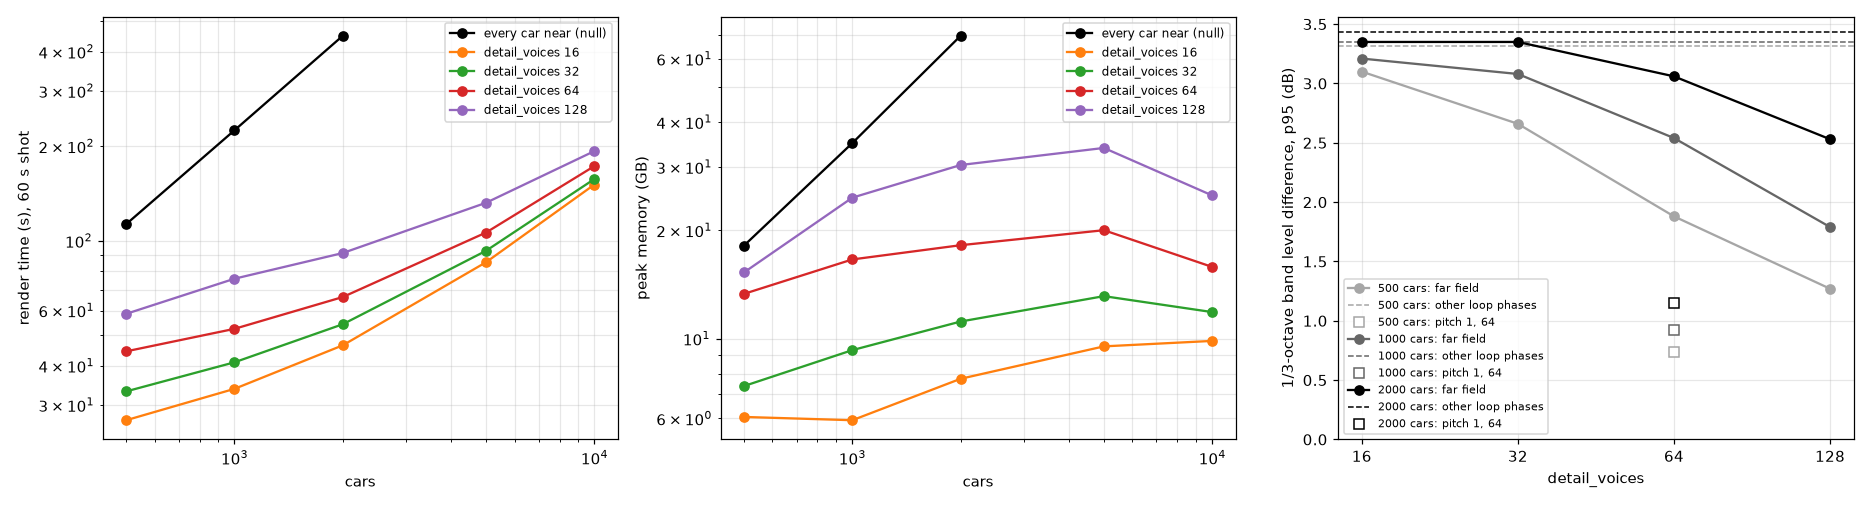
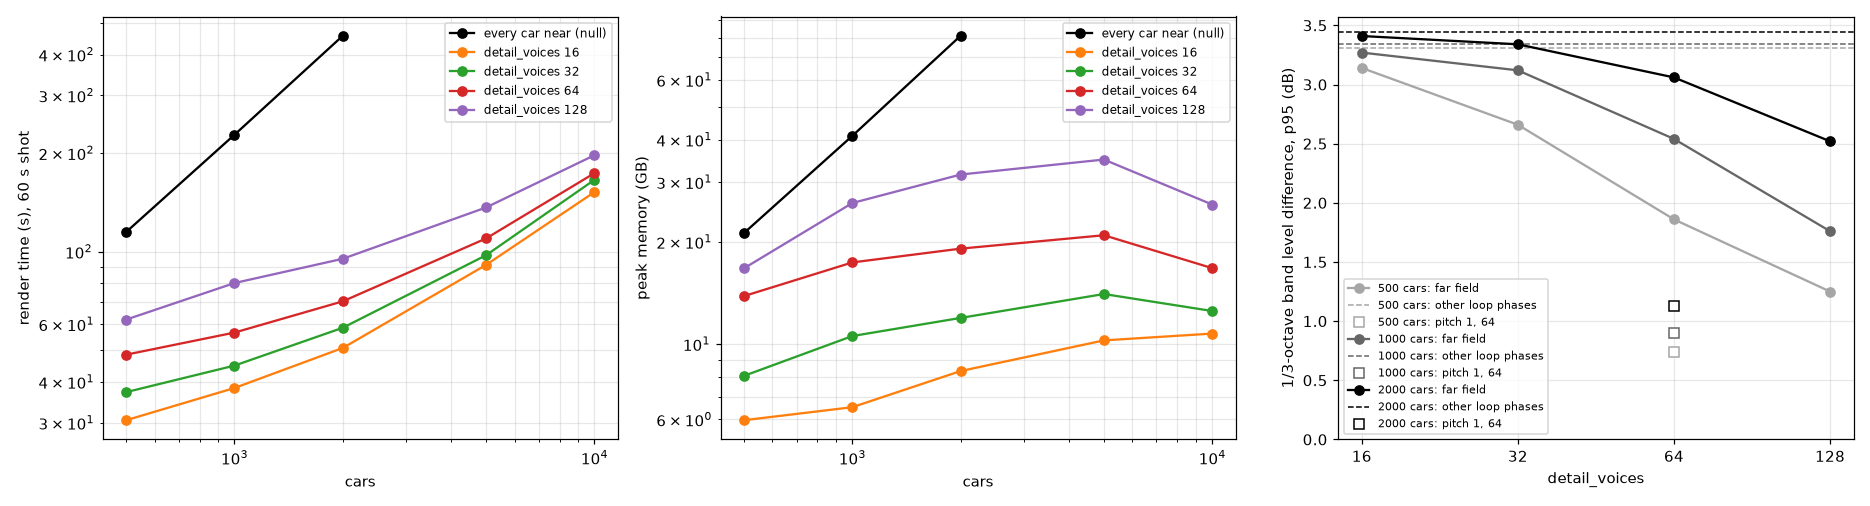
E18 rerun with the new air filter; Doppler cause of the far field's dull highs (#39)
E18's render cases ran again with 7e92f98 on the same bakes. 10 000
cars at detail_voices 64: 174 s, 16.7 GB (was 173 s, 15.8 GB); every
car through the full chain 0.23 s and 40 MB per car (was 35 MB: the air
sections' coefficients per control point, #32). Differences to the full
render unchanged within 0.1 dB.

The far field stays 0.6-1.3 dB duller at 3-6 kHz for 2000 cars, also
with the new filter, whose tiers agree within 0.73 dB: the cause is the
Doppler shift. The full chain absorbs at the emitted frequency (before
the delay line), the far field at the received one, which is the
physical one. E05 section 6 (new, --doppler): one source at 80 m/s,
far minus full -12.8 dB at 6.4 kHz approaching, +11.9 dB receding,
+1.4 dB standing. Filed as #40; the air-absorption model no longer
calls the shift negligible.

README, usage, ADR 0013 and the research index quote the new numbers.

diff --git a/research/experiments/scripts/e05_air_absorption.py b/research/experiments/scripts/e05_air_absorption.py
@@ -14,10 +14,15 @@
    the full chain (96 kHz) and ISO, bands sqrt(2) and an octave apart.
 5. Cost: the emission-side stage alone (ns per sample, one thread) and a full-chain render with air
    absorption on and off (48 moving sources, 20 s, one worker).
+6. Doppler: one source approaching or receding at 80 m/s (or standing) 450-700 m away, rendered by
+   the full chain (air absorption before the delay line, at the emitted frequency) and by the far
+   field (after the read, at the received frequency): the far field minus the full chain per band.
+   ``--doppler`` runs this section alone.
 Writes research/figures/e05_air_absorption.png.
 """
 
 import math
+import sys
 import time
 
 import matplotlib
@@ -248,7 +253,45 @@ def render_cost() -> tuple[float, float]:
     return tuple(out)
 
 
+def doppler() -> list[list]:
+    """Far field minus full chain (dB) at 1, 3.2 and 6.4 kHz for a source at 80 m/s towards and away
+    from the listener and a standing one, 3 s of noise (welch), and what the Doppler factor r of the
+    playback rate predicts if the full chain's loss is that of the emitted frequency f / r."""
+    from scipy.signal import welch
+
+    from soundstage.engine import farfield as ff
+
+    noise = sample("e05_doppler.wav", np.random.default_rng(1).standard_normal(4 * RATE) * 0.1)
+    f = np.array([1000.0, 3200.0, 6400.0])
+    rows = []
+    for v, d0 in ((80.0, 700.0), (-80.0, 300.0), (0.0, 450.0)):
+        t = np.arange(151)[:, None, None] / 30.0
+        pos = np.array([[[0.0, d0, 0.0]]]) - np.array([[[0.0, v, 0.0]]]) * t
+        sc = scene([{"sample": noise}], pos, frame_end=150,
+                   settings={"panner": "amplitude", "cull_db": None, "detail_voices": None})
+        full = render.render(sc).audio[RATE: 4 * RATE, 0]
+        assign = ff.assign_tiers
+        ff.assign_tiers = lambda e, g, sp, spans, n, d: np.zeros((len(e), n), dtype=bool)  # every source far
+        try:
+            sc.settings["detail_voices"] = 1
+            far = render.render(sc).audio[RATE: 4 * RATE, 0]
+        finally:
+            ff.assign_tiers = assign
+        fr, pa = welch(full, RATE, nperseg=4096)
+        _, pb = welch(far, RATE, nperseg=4096)
+        k = [int(np.argmin(np.abs(fr - x))) for x in f]
+        r = 1.0 / (1.0 - v / 343.0)
+        d = d0 - v * 2.5  # distance at the middle of the measured 3 s
+        predicted = -filters.iso9613_alpha(f) * d * (1.0 - 1.0 / r ** 2)
+        rows.append([f"{v:+.0f} m/s, {d0:.0f} m", *(f"{x:+.1f}" for x in 10 * np.log10(pb[k] / pa[k])),
+                     *(f"{x:+.1f}" for x in predicted)])
+    return rows
+
+
 def main() -> None:
+    if "--doppler" in sys.argv:
+        print_doppler()
+        return
     octave = np.array([63, 125, 250, 500, 1000, 2000, 4000, 8000])
     centres = 1000 * 10 ** (np.arange(-12, 10, 3) / 10)  # exact band centres
     for freqs, label in ((octave, "nominal band frequencies"), (centres, "exact band centres")):
@@ -303,6 +346,8 @@ def main() -> None:
           f"{on:.2f} s with air absorption and {off:.2f} s without (+{100 * (on / off - 1):.1f} %). "
           f"Interpolating h with the other coefficients keeps h (1 + g k) within {stray:.1e} of 1.")
 
+    print_doppler()
+
     air = filters.AirAbsorption(20, 50, RATE_E)
     f = np.geomspace(50, 20000, 400)
     alpha = filters.iso9613_alpha(f)
@@ -318,6 +363,12 @@ def main() -> None:
     ax.grid(alpha=0.3, which="both")
     ax.legend(fontsize=7, ncol=2)
     save(fig, "e05_air_absorption.png")
+
+
+def print_doppler() -> None:
+    print("\n6. Doppler: far field minus full chain (dB), and what the full chain's loss at the emitted frequency "
+          "f / r predicts (r: the Doppler factor):\n")
+    print(table(["source", "1 kHz", "3.2 kHz", "6.4 kHz", "predicted 1 kHz", "3.2 kHz", "6.4 kHz"], doppler()))
 
 
 if __name__ == "__main__":

diff --git a/research/experiments/E18-traffic.md b/research/experiments/E18-traffic.md
@@ -61,28 +61,32 @@ one job per node.
 
 ## Results: render time and memory
 
+These are the runs with the air filter of 7e92f98 (two sections with zeros, E05); the first runs
+(c81a028, four one-poles) are kept in `out/e18/results_c81a028.jsonl` on the machines that ran them.
+
 ![render time, memory and band level difference](../figures/e18_scaling.png)
 
 Render time (s) and peak memory (GB), 60 s shot, scenes baked with every path:
 
 | cars | null (every car near) | 16 | 32 | 64 (default) | 128 |
 |---|---|---|---|---|---|
-| 500 | 113 / 18.1 | 27 / 6.1 | 33 / 7.4 | 44 / 13.3 | 59 / 15.3 |
-| 1000 | 225 / 35.0 | 34 / 5.9 | 41 / 9.3 | 52 / 16.6 | 76 / 24.7 |
-| 2000 | 450 / 69.6 | 47 / 7.7 | 54 / 11.2 | 66 / 18.2 | 91 / 30.4 |
-| 5000 | | 86 / 9.5 | 93 / 13.1 | 106 / 20.0 | 132 / 33.9 |
-| 10 000 | | 151 / 9.9 | 157 / 11.9 | 173 / 15.8 | 193 / 25.0 |
+| 500 | 115 / 21.2 | 31 / 6.0 | 37 / 8.1 | 48 / 13.9 | 62 / 16.7 |
+| 1000 | 228 / 41.1 | 38 / 6.5 | 45 / 10.6 | 57 / 17.4 | 80 / 26.0 |
+| 2000 | 457 / 81.0 | 51 / 8.3 | 59 / 11.9 | 71 / 19.1 | 95 / 31.6 |
+| 5000 | | 91 / 10.3 | 98 / 14.1 | 110 / 20.9 | 136 / 35.0 |
+| 10 000 | | 152 / 10.7 | 166 / 12.5 | 174 / 16.7 | 197 / 25.8 |
 
 - With every car through the full chain, time and memory grow with the number of cars: about
-  0.23 s and 35 MB per car (2000 cars: 450 s, 69.6 GB).
+  0.23 s and 40 MB per car (2000 cars: 457 s, 81 GB). The first runs needed 35 MB per car: the air
+  filter's coefficients per control point take 6–7 MB more per voice over a 60 s shot (#32).
 - With the far field, the render time is a part per car plus a part per near voice. A
   least-squares fit over `detail_voices` 16–128 against the most near voices alive at once gives
-  0.17–0.20 s per near voice, on a base that grows from 21 s at 500 cars to 146 s at 10 000: about
-  13 ms per far car, 1/17 of the full chain. 10 000 cars at the default 64 render in 173 s with
-  15.8 GB.
+  0.17–0.20 s per near voice, on a base that grows from 25 s at 500 cars to 149 s at 10 000: about
+  15 ms per far car, 1/15 of the full chain. 10 000 cars at the default 64 render in 174 s with
+  16.7 GB (first runs: 173 s, 15.8 GB).
 - Memory follows the near voices alive at once, not the number of cars. They peak at about
   2 × `detail_voices` (hysteresis 1.5 and renderers overlapping at chunk boundaries). The same fit
-  gives 55–110 MB per near voice at the peak, on a base of 4–7 GB that grows with the number of
+  gives 63–110 MB per near voice at the peak, on a base of 4–8 GB that grows with the number of
   cars (their positions).
 - The setup (positions, estimates, tiers) takes 12 s at 10 000 cars; the rest is audio.
 
@@ -90,24 +94,24 @@ Render time (s) and peak memory (GB), 60 s shot, scenes baked with every path:
 
 | cars | case | band level median / p95 (dB) | balance p95 (dB) | block level p95 (dB) |
 |---|---|---|---|---|
-| 500 | phase | −0.01 / 3.32 | 3.03 | 2.34 |
-| 500 | 16 | −0.20 / 3.10 | 3.16 | 2.27 |
-| 500 | 64 | 0.02 / 1.88 | 1.23 | 1.08 |
-| 500 | 128 | 0.01 / 1.27 | 0.71 | 0.56 |
-| 500 | direct | 0.03 / 1.91 | 1.23 | 1.07 |
-| 500 | unpitched, 64 | 0.02 / 0.74 | 0.30 | 0.08 |
-| 1000 | phase | −0.01 / 3.35 | 3.03 | 2.71 |
-| 1000 | 16 | −0.32 / 3.21 | 3.59 | 2.16 |
-| 1000 | 64 | −0.06 / 2.54 | 2.34 | 1.55 |
-| 1000 | 128 | 0.03 / 1.79 | 1.37 | 1.03 |
-| 1000 | direct | −0.06 / 2.54 | 2.27 | 1.55 |
-| 1000 | unpitched, 64 | −0.00 / 0.92 | 0.81 | 0.12 |
-| 2000 | phase | 0.00 / 3.43 | 3.11 | 2.54 |
-| 2000 | 16 | −0.40 / 3.35 | 4.08 | 2.65 |
-| 2000 | 64 | −0.27 / 3.06 | 3.40 | 2.13 |
-| 2000 | 128 | −0.08 / 2.53 | 2.46 | 1.66 |
-| 2000 | direct | −0.26 / 3.06 | 3.36 | 2.16 |
-| 2000 | unpitched, 64 | −0.06 / 1.15 | 1.11 | 0.13 |
+| 500 | phase | −0.01 / 3.31 | 3.02 | 2.34 |
+| 500 | 16 | −0.21 / 3.14 | 3.22 | 2.27 |
+| 500 | 64 | 0.02 / 1.86 | 1.25 | 1.08 |
+| 500 | 128 | 0.01 / 1.25 | 0.72 | 0.56 |
+| 500 | direct | 0.03 / 1.88 | 1.25 | 1.08 |
+| 500 | unpitched, 64 | 0.02 / 0.74 | 0.28 | 0.08 |
+| 1000 | phase | −0.02 / 3.34 | 3.03 | 2.71 |
+| 1000 | 16 | −0.32 / 3.27 | 3.54 | 2.16 |
+| 1000 | 64 | −0.07 / 2.54 | 2.30 | 1.56 |
+| 1000 | 128 | 0.02 / 1.76 | 1.37 | 1.03 |
+| 1000 | direct | −0.06 / 2.54 | 2.23 | 1.55 |
+| 1000 | unpitched, 64 | −0.01 / 0.90 | 0.79 | 0.12 |
+| 2000 | phase | 0.00 / 3.44 | 3.10 | 2.54 |
+| 2000 | 16 | −0.39 / 3.41 | 3.95 | 2.65 |
+| 2000 | 64 | −0.27 / 3.06 | 3.42 | 2.13 |
+| 2000 | 128 | −0.08 / 2.52 | 2.40 | 1.65 |
+| 2000 | direct | −0.26 / 3.06 | 3.39 | 2.17 |
+| 2000 | unpitched, 64 | −0.06 / 1.13 | 1.09 | 0.12 |
 
 - **Other loop phases alone** change the band levels by up to 3.3–3.4 dB (95th percentile), the
   balance by 3.0–3.1 dB and the block level by 2.3–2.7 dB. Loops of nearly the same tone beat
@@ -115,12 +119,12 @@ Render time (s) and peak memory (GB), 60 s shot, scenes baked with every path:
   random from the source id. A difference of this size is not an error of the far field.
 - **The far field** stays at or below that in band level and block level in every case, and comes
   closer to the reference with more near voices. The balance is the exception: at 2000 cars and
-  `detail_voices` up to 64 (and at 1000 cars and 16) it differs by 3.4–4.1 dB, more than other
+  `detail_voices` up to 64 (and at 1000 cars and 16) it differs by 3.4–4.0 dB, more than other
   phases change it (3.0–3.1 dB). The far field has no ITD or head shadow.
 - **With pitch 1** (both tiers read the loops at the same point), the far field differs from the
-  full render by 0.7–1.2 dB in band level, 0.3–1.1 dB in balance and 0.1 dB in block level (95th
+  full render by 0.7–1.1 dB in band level, 0.3–1.1 dB in balance and 0.1 dB in block level (95th
   percentiles).
-- **Far visibility from the direct path** (the default bake) renders within 0.04 dB of the bake
+- **Far visibility from the direct path** (the default bake) renders within 0.07 dB of the bake
   with every path, in every measure.
 
 ## Results: high frequencies
@@ -129,37 +133,43 @@ Median band level difference per octave (dB; the octave from the given frequency
 
 | case | 400 Hz | 800 Hz | 1.6 kHz | 3.2 kHz | 6.4 kHz |
 |---|---|---|---|---|---|
-| phase | 0.03 | −0.04 | −0.00 | 0.00 | 0.12 |
-| 16 | 0.20 | −0.13 | −0.39 | −1.05 | −1.84 |
-| 64 | 0.12 | 0.03 | −0.23 | −0.65 | −1.09 |
-| 128 | 0.30 | 0.12 | −0.05 | −0.29 | −0.44 |
-| unpitched, 64 | 0.07 | 0.04 | −0.22 | −0.65 | −1.04 |
+| phase | 0.03 | −0.04 | 0.00 | 0.00 | 0.11 |
+| 16 | 0.17 | −0.13 | −0.34 | −1.00 | −2.25 |
+| 64 | 0.06 | 0.02 | −0.21 | −0.64 | −1.31 |
+| 128 | 0.30 | 0.11 | −0.05 | −0.30 | −0.63 |
+| unpitched, 64 | 0.04 | 0.02 | −0.20 | −0.63 | −1.29 |
 
 The far field is duller above 3 kHz, by as much with pitch 1 (so not from the loop phases) and
-more with fewer near voices (so from the far voices). Two causes:
+more with fewer near voices (so from the far voices). With the first air filter the medians were
+−0.65 and −1.09 dB at 64; the new filter, whose two tiers agree within 0.73 dB below 20 dB of loss
+and follow ISO to 60 dB, did not remove them:
 
-- **Distance bands.** A voice between two bands is the sum of their air-absorption filters, and
-  their phases differ. The first runs, with bands an octave apart (`BAND_RATIO` 2, `N_BANDS` 11 in
-  `farfield.py`), gave −0.79 and −1.32 dB at 3.2 and 6.4 kHz for 2000 cars at 64. With bands √2
-  apart, a voice halfway between two bands is within 0.5 dB of the full chain up to 6.5 kHz
-  (`tests/test_farfield.py`), and the medians above are 0.1–0.25 dB closer. The 20 bands cost
-  5–13 % render time.
-- **Air absorption beyond 20 dB.** The rest comes from distant cars, where the air takes more than
-  20 dB above 3 kHz. There the far field's filters (fitted at the output rate) and the full chain's
-  (fitted at twice that rate) differ, and both stay far below ISO 9613-1's loss:
-
-| distance (m) | 3.2 kHz: ISO / far / full (dB) | 6.4 kHz | 9 kHz |
+| distance (m) | 3.2 kHz: ISO / far (48 kHz) / full (96 kHz) (dB) | 6.4 kHz | 9 kHz |
 |---|---|---|---|
-| 141 | −2.9 / −2.9 / −3.1 | −9.8 / −10.1 / −10.3 | −18.5 / −17.8 / −16.9 |
-| 283 | −5.7 / −6.2 / −6.3 | −19.7 / −18.3 / −17.8 | −37.0 / −28.7 / −26.7 |
-| 566 | −11.5 / −12.0 / −12.0 | −39.4 / −27.3 / −26.7 | −74.1 / −38.7 / −36.5 |
-| 1131 | −22.9 / −18.8 / −18.8 | −78.7 / −34.7 / −33.8 | −148.0 / −46.2 / −43.7 |
+| 141 | −2.9 / −3.0 / −3.0 | −9.8 / −9.6 / −9.6 | −18.5 / −18.4 / −18.6 |
+| 283 | −5.7 / −6.0 / −6.2 | −19.7 / −19.9 / −20.0 | −37.0 / −36.9 / −37.3 |
+| 566 | −11.5 / −10.9 / −10.8 | −39.4 / −39.3 / −39.7 | −74.1 / −64.0 / −66.7 |
+| 1131 | −22.9 / −23.5 / −23.6 | −78.7 / −62.9 / −63.9 | −148.0 / −62.5 / −61.0 |
 
-  Neither is the reference there: both tiers let distant cars sound much brighter than the air
-  would. These runs used the first air filter (four one-poles fitted below 20 dB of loss). It has
-  since been replaced by two sections with zeros that follow ISO down to 60 dB of loss, the same in
-  both tiers within 0.73 dB ([E05](E05-air-absorption.md), issue #36); the render cases are being
-  run again with it.
+The cause is the Doppler shift. The full chain filters on the emission side, before the delay
+line: at the emitted frequency. The far field filters its buses after the read: at the received
+frequency. The air absorbs the wave at its frequency in the air, which for a moving source is the
+shifted one, and the loss grows with the square of the frequency at high frequencies: a car closing
+at 80 m/s (Doppler factor 1.3) loses about 1.7 times as many dB as the full chain gives it. One
+source, far field minus full chain ([E05](E05-air-absorption.md), section 6):
+
+| source | 1 kHz | 3.2 kHz | 6.4 kHz |
+|---|---|---|---|
+| approaching at 80 m/s, 700 m | −0.9 | −2.9 | −12.8 |
+| receding at 80 m/s, 300 m | +0.4 | +2.6 | +11.9 |
+| standing, 450 m | −0.2 | −0.2 | +1.4 |
+
+In traffic the approaching cars are the brighter ones, so the full chain's high frequencies are too
+loud, and the far field, here the more physical tier, sounds duller than it. Filtering the full
+chain at the received frequency (its corners scaled by the playback rate) is issue #40. The
+distance bands add a smaller part: a voice between two bands is the sum of their filters, whose
+phases differ (up to 0.3 dB at 6.5 kHz, E05); with bands an octave apart the medians were 0.1–0.25 dB
+further off (the first runs), so the 20 bands (√2 apart) stay, at 5–13 % more render time.
 
 ## Results: bake
 
@@ -201,14 +211,16 @@ three snapshots of the occluder setup.
 
 ## What to take from it
 
-- The default `detail_voices` 64 renders 10 000 cars over 60 s in under 3 min and 16 GB on a 16-core
-  node, against 0.23 s and 35 MB per car through the full chain.
+- The default `detail_voices` 64 renders 10 000 cars over 60 s in under 3 min and 17 GB on a 16-core
+  node, against 0.23 s and 40 MB per car through the full chain.
 - The far field's difference to the full render is at or below what other random loop phases
   change, except for the left/right balance of dense traffic at `detail_voices` 64 or less. Raising
-  `detail_voices` lowers it at 0.17–0.20 s of render and 55–110 MB per near voice.
+  `detail_voices` lowers it at 0.17–0.20 s of render and 63–110 MB per near voice.
+- The far field is 0.6–1.3 dB duller than the full chain at 3–6 kHz in dense traffic because the
+  full chain absorbs at the emitted frequency, before the Doppler shift (#40).
 - The bake follows the tiers: the direct path for the far cars costs nothing measurable in the
   render, and makes the bake of thousands of cars 2–4 times faster.
-- Distant traffic was too bright in both tiers: the first air-absorption fits stopped following
+- Distant traffic was too bright in both tiers with the first air filter, which stopped following
   ISO 9613-1 beyond 20 dB of loss. The current filter follows it to 60 dB ([E05](E05-air-absorption.md)).
 - In a scene with millions of instances, moving occluders must be placed without walking the
   instances: by their instancer's matrix it takes 6 ms per visibility sample instead of 1.1 s with

diff --git a/research/README.md b/research/README.md
@@ -61,7 +61,7 @@ flowchart LR
 | [E15](experiments/E15-option-costs.md) | Execution time per option and source count | Render ≈ 3.7 s + 190 ms per source, bake ≈ 7.3 s + 380 ms (60 s shot); `doppler_factor` ≠ 1 2.5×, `occlusion_rate` linear in the per-source bake cost, `frame_set` 35 ms at 16 000 objects |
 | [E16](experiments/E16-culling.md) | Culling against budget and source count | Default −40 dB: render 4–9 % and bake 3–6 % faster, error of the shot 4–10 dB below the budget; −20 dB: 1.3–1.7×; `doppler_factor` 0.5: 1.9–2.0×. Distant sources that fill an area carry a similar power share per octave of distance, so few can be skipped; memory (27 MB per source) is not reduced |
 | [E17](experiments/E17-lens-and-pan.md) | Where a source at the frame edge is heard, against the lens | Camera mode ignores the lens: frame edge heard at 9° with 50 mm (HD screen edge 16.5°), 2.3° with 200 mm; `pan_reference = screen`: 16.5° for every lens |
-| [E18](experiments/E18-traffic.md) | Thousands of flying cars with the far field (`detail_voices`) | 10 000 cars over 60 s at the default 64: render 173 s and 15.8 GB (every car in the full chain: 0.23 s and 35 MB per car); band levels within what other loop phases change, 0.7–1.2 dB at pitch 1 (p95); distance bands √2 apart; distant cars too bright in both tiers beyond 20 dB of air loss with the first air filter (fixed, E05); direct-path visibility for far cars makes the bake 2.3–3.6× faster at no measurable render difference |
+| [E18](experiments/E18-traffic.md) | Thousands of flying cars with the far field (`detail_voices`) | 10 000 cars over 60 s at the default 64: render 174 s and 16.7 GB (every car in the full chain: 0.23 s and 40 MB per car); band levels within what other loop phases change, 0.7–1.1 dB at pitch 1 (p95); distance bands √2 apart; far field 0.6–1.3 dB duller at 3–6 kHz, because the full chain absorbs at the emitted frequency, before the Doppler shift (#40); direct-path visibility for far cars makes the bake 2.3–3.6× faster at no measurable render difference |
 | [E19](experiments/E19-reverb-send.md) | Reverb send over distance with thousands of sources | EFX law (constant send): reverb 13–14 LU louder than 2000–10 000 cars, 94 % of it from cars beyond 100 m; revised law (Barron and Lee, then spreading): 3–4 LU below the cars, 1 % from beyond 1 km; far-field send with band air absorption matches the full chain within 0.2 dB up to 8 kHz (8–25 dB too bright before) |
 
 ## Conventions

diff --git a/research/experiments/E05-air-absorption.md b/research/experiments/E05-air-absorption.md
@@ -96,6 +96,24 @@ moving sources over 20 s on one worker: 12.65 s with air absorption, 11.82 s wit
 Interpolating the sections' `h = 1/(1 + g k)` with the other coefficients instead of computing it
 keeps `h (1 + g k)` within 4.6·10⁻⁸ of 1.
 
+## 6. Doppler
+
+One source of noise at 80 m/s towards the listener (from 700 m), away from it (from 300 m), or
+standing at 450 m, 3 s measured, rendered by the full chain (air absorption on the emission side,
+at the emitted frequency) and by the far field (after the read, at the received frequency). Far
+field minus full chain, and what the full chain's loss at the emitted frequency `f / r` predicts
+with a loss in proportion to `f²` (`r` the Doppler factor), dB:
+
+| source | 1 kHz | 3.2 kHz | 6.4 kHz | predicted 1 kHz | 3.2 kHz | 6.4 kHz |
+|---|---|---|---|---|---|---|
+| +80 m/s, 700 m | -0.9 | -2.9 | -12.8 | -1.0 | -4.2 | -14.3 |
+| -80 m/s, 300 m | +0.4 | +2.6 | +11.9 | +1.2 | +5.3 | +18.1 |
+| +0 m/s, 450 m | -0.2 | -0.2 | +1.4 | -0.0 | -0.0 | -0.0 |
+
+The air absorbs the wave at its frequency in the air, the shifted one: the far field is right and
+the full chain gives an approaching source too little loss and a receding one too much (issue
+#40). Standing, the two tiers agree within 1.4 dB at 30 dB of loss.
+
 ## Conclusion
 
 The implementation of ISO 9613-1 is correct. Two second-order sections with a pair of zeros each,
@@ -107,5 +125,6 @@ bright beyond ([air absorption](../models/air-absorption.md), issue #36).
 ## Reproduce
 
 ```bash
-.venv/bin/python research/experiments/scripts/e05_air_absorption.py
+.venv/bin/python research/experiments/scripts/e05_air_absorption.py             # all sections
+.venv/bin/python research/experiments/scripts/e05_air_absorption.py --doppler   # section 6 alone
 ```

diff --git a/README.md b/README.md
@@ -31,7 +31,7 @@ culling is implemented: voices that do not matter (silent, or far below the rest
 are skipped within an error budget, which saves a few percent at the default and halves renders
 with many silent voices ([E16](research/experiments/E16-culling.md)). Shots with thousands of
 sources render the loudest 64 per group through the full chain and the rest in a cheaper far
-field: 10 000 flying cars, each with its engine, render over 60 s in under 3 minutes and 16 GB
+field: 10 000 flying cars, each with its engine, render over 60 s in under 3 minutes and 17 GB
 ([E18](research/experiments/E18-traffic.md)); their reverb send falls with distance, so distant
 traffic does not fill the reverb ([E19](research/experiments/E19-reverb-send.md)). Panning follows the picture: what is in the frame
 is heard at its place on the screen, through the camera lens and its zooms
@@ -86,13 +86,13 @@ memory follows the near voices, not the sources:
 
 | | per source | per near voice (at most about 2 × `detail_voices` at once) | 10 000 cars, default |
 |---|---|---|---|
-| render | 13 ms | 0.17–0.20 s, 55–110 MB | 2.9 min, 16 GB |
+| render | 15 ms | 0.17–0.20 s, 63–110 MB | 2.9 min, 17 GB |
 | bake | 0.14–0.17 s | | 25 min |
 
 The bake gives the sources ranked beyond 2 × `detail_voices` the direct path only for their
 visibility; with every path it took 91 min for the same 10 000 cars. `--set detail_voices=null`
-renders every source through the full chain (0.23 s and 35 MB per car here; 2000 cars took 7.5 min
-and 70 GB).
+renders every source through the full chain (0.23 s and 40 MB per car here; 2000 cars took 7.6 min
+and 81 GB).
 
 **Render options**, most expensive first (effect relative to the defaults, at 100 sources):
 

diff --git a/docs/usage.md b/docs/usage.md
@@ -218,11 +218,11 @@ setting from the scene settings to skip visibility rays of sources far below the
 default) run the full chain; the others run the far field, which keeps each source's level, pitch,
 Doppler, delay and side but shares air absorption and occlusion filtering per distance band, and
 leaves out the interaural delay, head shadow and rear low-pass. For a 60 s shot, a far source costs
-about 13 ms of render and almost no memory; a near voice 0.17–0.20 s and 55–110 MB at its peak. 10 000
-flying cars over 60 s render in under 3 minutes with 16 GB
+about 15 ms of render and almost no memory; a near voice 0.17–0.20 s and 63–110 MB at its peak. 10 000
+flying cars over 60 s render in under 3 minutes with 17 GB
 ([E18](../research/experiments/E18-traffic.md)). The render prints the far share and the most near
 voices alive at once. `--set detail_voices=16` is faster; `--set detail_voices=null` renders every
-source in full (0.23 s and 35 MB per source). The bake reads `detail_voices` from the scene
+source in full (0.23 s and 40 MB per source). The bake reads `detail_voices` from the scene
 settings too and gives the sources ranked beyond twice that the direct path only for their
 visibility, which makes the bake of thousands of sources 2–4 times faster; render with the same
 setting you baked with (the render warns otherwise).

diff --git a/research/models/air-absorption.md b/research/models/air-absorption.md
@@ -77,8 +77,12 @@ signal unchanged.
 | Placement | Emission side, mono | After the read per ear: twice the work, no audible difference. |
 
 Physically, absorption acts at the frequency of the wave in the air (the emitted frequency
-shifted by the source's motion); applying it before the read means the filter's corner is shifted
-by the Doppler factor too. At 30 m/s that is 10 % of the corner frequency, within the fit error.
+shifted by the source's motion); applied before the read, the filter acts on the emitted frequency.
+At high frequencies the loss grows with `f²`, so a source closing at 80 m/s (Doppler factor 1.3)
+gets 1.7 times too little loss in dB from the full chain: 12.8 dB too much at 6.4 kHz at 700 m,
+while a receding one gets 11.9 dB too little ([E05](../experiments/E05-air-absorption.md),
+section 6). The far field filters after the read and is right there; in dense traffic the full
+chain's highs are 0.6–1.3 dB louder (E18). Scaling the corners by the playback rate is issue #40.
 
 ## Verification
 

diff --git a/docs/adr/0013-two-render-tiers.md b/docs/adr/0013-two-render-tiers.md
@@ -57,7 +57,7 @@ render memory follows the near voices alive at a time.
 
 ## Consequences
 
-- 10 000 sources over 60 s render in about 3 min and 16 GB on a 16-core node (E18).
+- 10 000 sources over 60 s render in about 3 min and 17 GB on a 16-core node (E18).
 - A far voice has no ITD, head shadow or rear low-pass, a per-band instead of a per-source air
   absorption, a single broadband visibility, no playback-rate clamp, and a 8-control-point fade at
   jumps instead of a crossfaded held branch. Which sources are far is decided by level, so these
